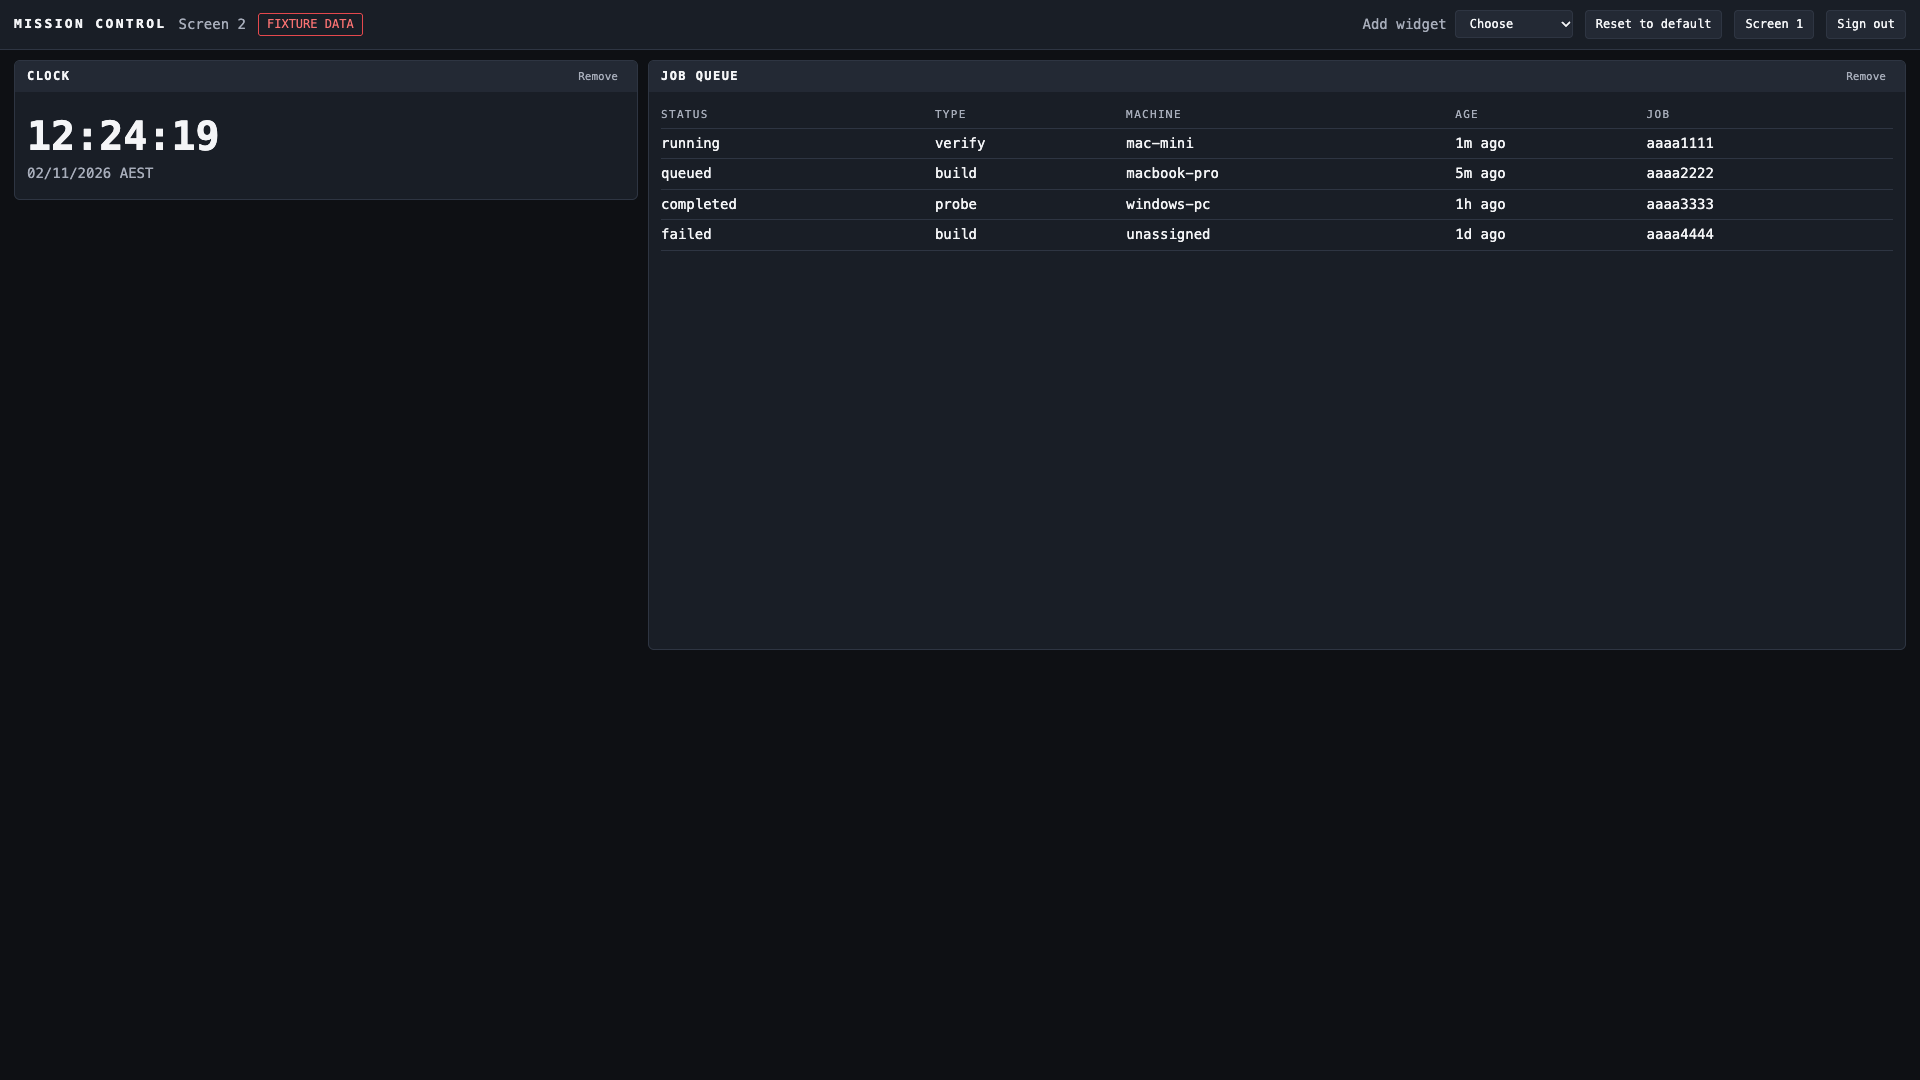
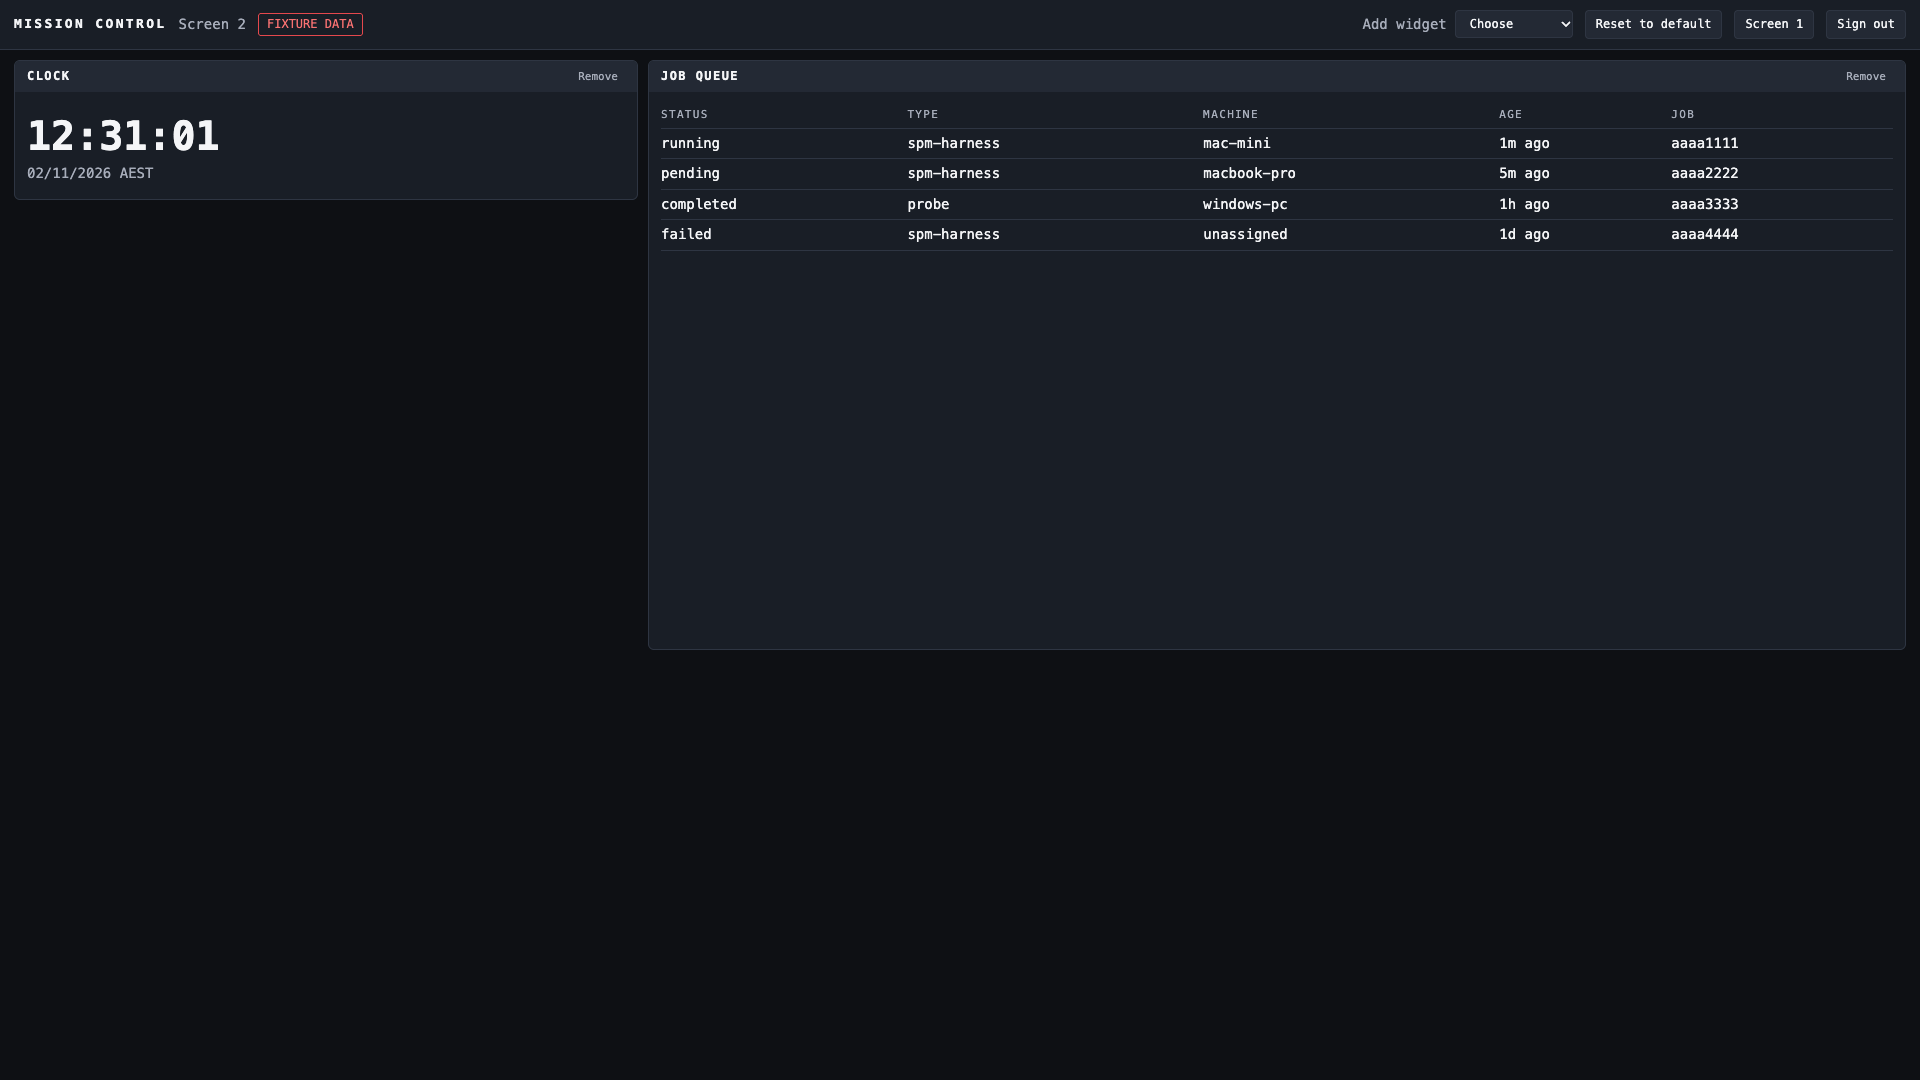
fix(mission-control-local): close round 3 review findings (UNI-3149, UNI-3150)
Broker words now come from fixed lists taken from the broker source, replacing the
shape rule, so a short unprefixed token cannot pass as a name. A present capabilities
or repos field of the wrong shape now fails the read instead of showing as empty.
The stale threshold now matches the broker's 45-second freshness window. Fixture
updated to the broker's real values; screenshots retaken.

Gate: pr-release-gate, Tier 1; Codex round 3 findings on 032aa7df, re-review on this head.

diff --git a/apps/mission-control-local/server/fleet.ts b/apps/mission-control-local/server/fleet.ts
@@ -5,19 +5,26 @@ import { MACHINE_IDS } from '../shared/types.ts';
 import type { JobView, MachineHealth, MachineView, RepoView } from '../shared/types.ts';
 import { redactDeep } from './redact.ts';
 
-export const STALE_AFTER_MS = 60_000;
+// Matches the broker's own 45-second freshness window, so the two never disagree.
+export const STALE_AFTER_MS = 45_000;
 export const OFFLINE_AFTER_MS = 300_000;
 export const MAX_JOBS = 50;
 
 type Dict = Record<string, unknown>;
 
 const isDict = (v: unknown): v is Dict => typeof v === 'object' && v !== null && !Array.isArray(v);
-// Everything the broker names (state, type, repo, capability) is a short word. Holding
-// those fields to that shape is what keeps a stray value out; the scrubber only backs it up.
-const SAFE_NAME = /^[A-Za-z][A-Za-z0-9_-]{0,23}$/;
-const JOB_ID = /^[0-9a-f-]{1,36}$/i;
-const isSafeName = (v: unknown): v is string => typeof v === 'string' && SAFE_NAME.test(v);
-const text = (v: unknown, fallback: string): string => (isSafeName(v) ? v : fallback);
+// The broker's own vocabulary, from ~/.unite-fleet/broker.mjs and live /status on 02/11/2026.
+// Only these exact words reach the browser, so no token shape can get through as a name.
+// A word the broker adds later shows as "unknown" (or is left off) until it is added here.
+const STATES = new Set(['idle', 'working']);
+const JOB_STATUSES = new Set(['pending', 'running', 'completed', 'failed', 'blocked']);
+const JOB_TYPES = new Set(['probe', 'spm-harness']);
+const CAPABILITIES = new Set(['buildCapacity', 'claude', 'codex', 'jev', 'verify', 'workspaceGuard']);
+const REPOS = new Set(['unite-group', 'pi-dev-ops']);
+const MACHINES: ReadonlySet<string> = new Set(MACHINE_IDS);
+const JOB_ID = /^[0-9a-f]{8}-[0-9a-f-]{1,27}$|^[0-9a-f]{8}$/i;
+const known = (v: unknown, words: ReadonlySet<string>): string =>
+  typeof v === 'string' && words.has(v) ? v : 'unknown';
 const time = (v: unknown): number | null =>
   typeof v === 'number' && Number.isFinite(v) && v > 0 ? v : null;
 const age = (at: number | null, now: number): number | null =>
@@ -35,7 +42,7 @@ function shortSha(v: unknown): string | null {
 
 function repoViews(v: unknown): RepoView[] {
   if (!isDict(v)) return [];
-  return Object.entries(v).filter(([name]) => isSafeName(name)).map(([name, repo]) => ({
+  return Object.entries(v).filter(([name]) => REPOS.has(name)).map(([name, repo]) => ({
     name,
     available: isDict(repo) && repo.available === true,
     headSha: isDict(repo) ? shortSha(repo.headSha) : null,
@@ -46,14 +53,14 @@ function machineView(raw: Dict, now: number, showIp: boolean): MachineView {
   const lastSeenAt = time(raw.lastSeen);
   const ageMs = age(lastSeenAt, now);
   const view: MachineView = {
-    id: text(raw.machineId, 'unknown'),
-    state: text(raw.state, 'unknown'),
+    id: known(raw.machineId, MACHINES),
+    state: known(raw.state, STATES),
     health: healthFor(ageMs),
     lastSeenAt,
     ageMs,
     capabilities: isDict(raw.capabilities)
       ? Object.entries(raw.capabilities)
-          .filter(([name]) => isSafeName(name))
+          .filter(([name]) => CAPABILITIES.has(name))
           .map(([name, on]) => ({ name, enabled: on === true }))
       : [],
     repos: repoViews(raw.repos),
@@ -69,12 +76,25 @@ function jobView(raw: Dict, now: number): JobView {
   const createdAt = time(raw.createdAt);
   return {
     id: typeof raw.id === 'string' && JOB_ID.test(raw.id) ? raw.id.slice(0, 8) : 'unknown',
-    type: text(raw.type, 'unknown'),
-    status: text(raw.status, 'unknown'),
-    machineId: isSafeName(raw.machineId) ? raw.machineId : null,
+    type: known(raw.type, JOB_TYPES),
+    status: known(raw.status, JOB_STATUSES),
+    machineId: typeof raw.machineId === 'string' && MACHINES.has(raw.machineId) ? raw.machineId : null,
     createdAt,
     ageMs: age(createdAt, now),
   };
+}
+
+/** A present capabilities or repos field of the wrong shape must fail the read, not show as empty. */
+function nestedFieldsValid(machine: Dict): boolean {
+  const { capabilities, repos } = machine;
+  if (capabilities !== undefined) {
+    if (!isDict(capabilities)) return false;
+    if (!Object.values(capabilities).every((on) => typeof on === 'boolean')) return false;
+  }
+  if (repos !== undefined) {
+    if (!isDict(repos) || !Object.values(repos).every(isDict)) return false;
+  }
+  return true;
 }
 
 /** Returns null when the payload is not the broker's shape, so it reads as a failure, not an empty fleet. */
@@ -90,6 +110,7 @@ export function toFleetView(
   const reported = payload.machines;
   const rawJobs = payload.jobs;
   if (!reported.every((m) => isDict(m) && typeof m.machineId === 'string' && m.machineId)) return null;
+  if (!(reported as Dict[]).every(nestedFieldsValid)) return null;
   if (!rawJobs.every((j) => isDict(j) && typeof j.id === 'string' && j.id)) return null;
   const showIp = options.showTailscaleIp === true;
   const known = MACHINE_IDS.map((id) => {

diff --git a/apps/mission-control-local/server/fleet.test.ts b/apps/mission-control-local/server/fleet.test.ts
@@ -49,7 +49,7 @@ test('head SHA is cut to 8 characters and a non-SHA is dropped', () => {
   const view = toFleetView(fixture, NOW);
   assert.equal(view?.machines[0]?.repos[0]?.headSha, '11111111');
   const odd = toFleetView(
-    { machines: [{ machineId: 'mac-mini', repos: { r: { available: true, headSha: 'not a sha' } } }], jobs: [] },
+    { machines: [{ machineId: 'mac-mini', repos: { 'unite-group': { available: true, headSha: 'not a sha' } } }], jobs: [] },
     NOW,
   );
   assert.equal(odd?.machines[0]?.repos[0]?.headSha, null);
@@ -102,12 +102,16 @@ test('real broker names pass the name rule unchanged', () => {
   assert.deepEqual(view?.jobs[0], { id: 'cbeaca5e', machineId: 'macbook-pro', type: 'probe', status: 'completed', createdAt: null, ageMs: null });
 });
 
-test('a secret-shaped short name is still scrubbed by the second layer', () => {
-  const planted = 's' + 'k-' + 'x'.repeat(16);
-  const view = toFleetView({ machines: [], jobs: [{ id: 'abc', type: planted, status: 'queued' }] }, NOW);
-  const out = JSON.stringify(view);
-  assert.ok(!out.includes(planted));
-  assert.ok(out.includes('[secret]'));
+test('a short unprefixed token in a named field does not reach the browser', () => {
+  const planted = 'Qwerty1234567890AbCd';
+  const view = toFleetView(
+    {
+      machines: [{ machineId: 'mac-mini', state: planted, capabilities: { [planted]: true }, repos: { [planted]: {} } }],
+      jobs: [{ id: planted, machineId: planted, type: planted, status: planted }],
+    },
+    NOW,
+  );
+  assert.ok(!JSON.stringify(view).includes(planted));
 });
 
 test('redaction covers each rule and leaves plain words alone', () => {
@@ -166,6 +170,10 @@ test('a payload of the wrong shape is a failure, not an empty fleet', () => {
     { machines: [null], jobs: [] },
     { machines: [{ label: 'no id' }], jobs: [] },
     { machines: [machine, 'x'], jobs: [] },
+    { machines: [{ ...machine, capabilities: 'invalid' }], jobs: [] },
+    { machines: [{ ...machine, capabilities: { claude: 'yes' } }], jobs: [] },
+    { machines: [{ ...machine, repos: 'invalid' }], jobs: [] },
+    { machines: [{ ...machine, repos: { 'unite-group': 'invalid' } }], jobs: [] },
     { machines: [], jobs: [null] },
     { machines: [], jobs: [{ status: 'no id' }] },
     { machines: [], jobs: [job, 5] },

diff --git a/apps/mission-control-local/README.md b/apps/mission-control-local/README.md
@@ -30,9 +30,9 @@ The bind address has no setting.
 
 ## Fleet data
 
-`server/broker.ts` is the only code that talks to the broker, and it sends one request: `GET http://127.0.0.1:42137/status`. `server/fleet.ts` copies named fields into the view in `shared/types.ts`, so hostnames, paths, refs and job results stay on the server, and anything new the broker adds stays out until someone adds it. Names the broker supplies (state, job type, repo, capability) must be short plain words or they are dropped, and `server/redact.ts` then scrubs what remains.
+`server/broker.ts` is the only code that talks to the broker, and it sends one request: `GET http://127.0.0.1:42137/status`. `server/fleet.ts` copies named fields into the view in `shared/types.ts`, so hostnames, paths, refs and job results stay on the server, and anything new the broker adds stays out until someone adds it. Words the broker supplies (state, job status and type, repo, capability) must be on the fixed lists in `server/fleet.ts`. A new word shows as "unknown", or is left off, until someone adds it there. `server/redact.ts` then scrubs the result as a second layer.
 
-A machine shows stale after 60 seconds without a heartbeat and offline after 5 minutes. A failed broker read shows "Broker down" on every fleet widget, never an empty list.
+A machine shows stale after 45 seconds without a heartbeat, matching the broker's own freshness window, and offline after 5 minutes. A failed broker read shows "Broker down" on every fleet widget, never an empty list.
 
 ## Add a widget
 
